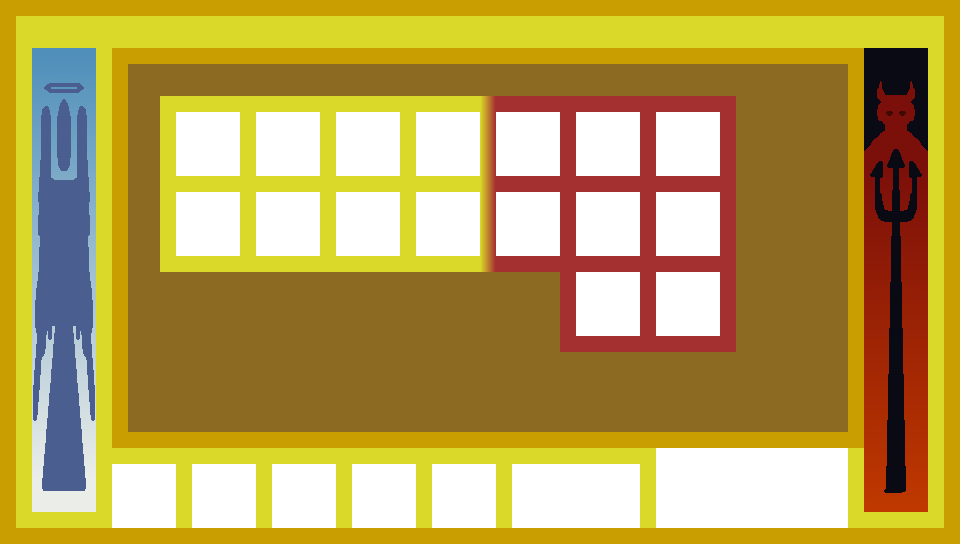
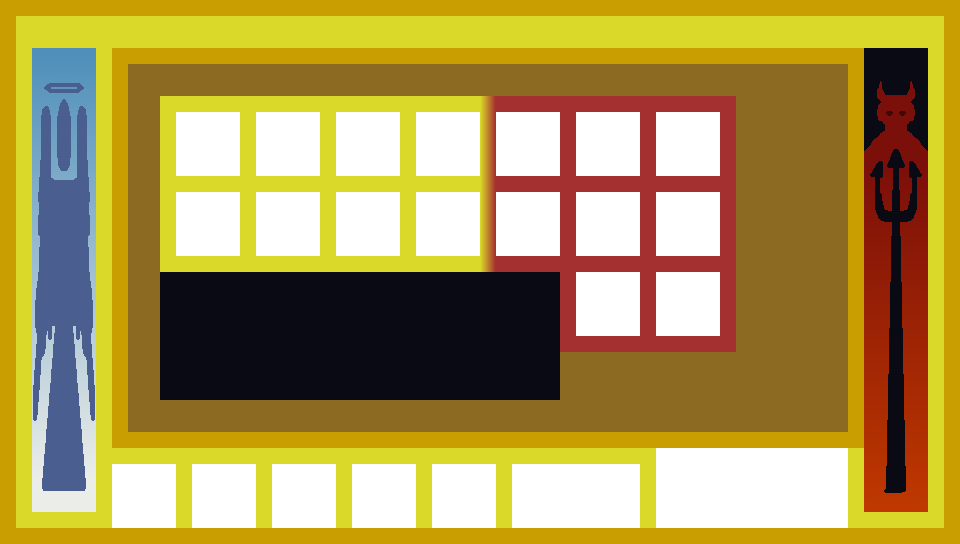
finished tooltips for angel troops in inventory

Changed region(s): [[0.1562, 0.5, 0.5938, 0.75]]

diff --git a/src/scenes/Inventory.js b/src/scenes/Inventory.js
@@ -4,6 +4,9 @@ class Inventory extends Phaser.Scene {
     }
 
     create() {
+        // flag for printing info just once
+        this.infoFlag = true;
+        
         // add snapshot image from prior Scene
         if (this.textures.exists('titlesnapshot')) {
             let titleSnap = this.add.image(0, 0, 'titlesnapshot').setOrigin(0);
@@ -19,13 +22,13 @@ class Inventory extends Phaser.Scene {
         const troops = [];
 
         // create slot objects
-        this.archer = this.physics.add.image(176, 112, 'Archer_icon').setOrigin(0,0)
-        this.archer.name = 'Archer'
-        troops.push(this.archer)
-
-        this.sword = this.physics.add.image(256, 112, 'Swordsman_icon').setOrigin(0,0)
+        this.sword = this.physics.add.image(176, 112, 'Swordsman_icon').setOrigin(0,0)
         this.sword.name = 'Swordsman'
         troops.push(this.sword)
+
+        this.archer = this.physics.add.image(256, 112, 'Archer_icon').setOrigin(0,0)
+        this.archer.name = 'Archer'
+        troops.push(this.archer)
 
         this.shield = this.physics.add.image(416, 112, 'Shieldbearer_icon').setOrigin(0,0)
         this.shield.name = 'Shieldbearer'
@@ -47,14 +50,18 @@ class Inventory extends Phaser.Scene {
         this.archangel = this.physics.add.image(336, 192, 'Archangel_icon').setOrigin(0,0)
         this.archangel.name = 'Archangel'
         troops.push(this.archangel)
-        
-        this.mystery = this.physics.add.image(416, 192, 'question_mark').setOrigin(0,0)
 
-        console.log(troops)
+        this.god = this.physics.add.image(416, 192, 'God_icon').setOrigin(0,0)
+        this.god.name = 'God'
+        troops.push(this.god)
+        
+        this.mystery = this.physics.add.image(416, 192, 'God_icon').setOrigin(0,0)
+
+        // demon icons
+        this.warrior = this.physics.add.image(496, 112, 'Warrior_icon').setOrigin(0,0)
 
         // create player cursor object
-        this.cursor = this.physics.add.image(this.archer.x - 2, this.archer.y - 2, 'cursor').setOrigin(0,0)
-        
+        this.cursor = this.physics.add.image(this.sword.x - 2, this.sword.y - 2, 'cursor').setOrigin(0,0)
 
         // keyboard defs
         keyW = this.input.keyboard.addKey('W')
@@ -66,18 +73,12 @@ class Inventory extends Phaser.Scene {
 
         // adding troops to roster, remove if pressed again
         this.physics.add.overlap(this.cursor, troops, (cursor, troop)=> {
+            if (this.infoFlag) {
+                this.add.image(160, 272, troop.name + '_info').setOrigin(0,0)
+                this.infoFlag = false;
+            }
             if (Phaser.Input.Keyboard.JustDown(keySPACE)) {
-                if (troop.name == 'Archer'){ 
-                    if (roster.length < MAXROSTERSIZE && level >= 1 && !this.checkDuplicates(troop)) {
-                        roster.push('Archer')
-                        this.updateRoster()
-                    } else if(this.checkDuplicates(troop) && roster.length > 1){
-                        this.removeTroop(troop)
-                        this.updateRoster()
-                    } else {
-                        console.log("NUH UH (play err anim)")
-                    }
-                } else if (troop.name == 'Swordsman'){ 
+                if (troop.name == 'Swordsman'){ 
                     if (roster.length < MAXROSTERSIZE && level >= 1 && !this.checkDuplicates(troop)) {
                         roster.push('Swordsman')
                         this.updateRoster()
@@ -85,9 +86,20 @@ class Inventory extends Phaser.Scene {
                         this.removeTroop(troop)
                         this.updateRoster()
                     } else {
-                        console.log("NUH UH (play err anim)")
+                        console.log("play err anim")
                     }
                 }
+                else if (troop.name == 'Archer'){ 
+                    if (roster.length < MAXROSTERSIZE && level >= 1 && !this.checkDuplicates(troop)) {
+                        roster.push('Archer')
+                        this.updateRoster()
+                    } else if(this.checkDuplicates(troop) && roster.length > 1){
+                        this.removeTroop(troop)
+                        this.updateRoster()
+                    } else {
+                        console.log("play err anim")
+                    }
+                } 
                 else if (troop.name == 'Shieldbearer'){ 
                     if (roster.length < MAXROSTERSIZE && level >= 1 && !this.checkDuplicates(troop)) {
                         roster.push('Shieldbearer')
@@ -96,7 +108,7 @@ class Inventory extends Phaser.Scene {
                         this.removeTroop(troop)
                         this.updateRoster()
                     } else {
-                        console.log("NUH UH (play err anim)")
+                        console.log("play err anim")
                     }
                 }
                 else if (troop.name == 'Axeman'){ 
@@ -107,7 +119,7 @@ class Inventory extends Phaser.Scene {
                         this.removeTroop(troop)
                         this.updateRoster()
                     } else {
-                        console.log("NUH UH (play err anim)")
+                        console.log("play err anim")
                     }
                 }
                 else if (troop.name == 'Spearman'){ 
@@ -118,7 +130,7 @@ class Inventory extends Phaser.Scene {
                         this.removeTroop(troop)
                         this.updateRoster()
                     } else {
-                        console.log("NUH UH (play err anim)")
+                        console.log("play err anim")
                     }
                 }
                 else if (troop.name == 'Cavalry'){ 
@@ -129,7 +141,7 @@ class Inventory extends Phaser.Scene {
                         this.removeTroop(troop)
                         this.updateRoster()
                     } else {
-                        console.log("NUH UH (play err anim)")
+                        console.log("play err anim")
                     }
                 }
                 else if (troop.name == 'Archangel'){ 
@@ -140,7 +152,18 @@ class Inventory extends Phaser.Scene {
                         this.removeTroop(troop)
                         this.updateRoster()
                     } else {
-                        console.log("NUH UH (play err anim)")
+                        console.log("play err anim")
+                    }
+                }
+                else if (troop.name == 'God'){ 
+                    if (roster.length < MAXROSTERSIZE && level >= 60 && !this.checkDuplicates(troop)) {
+                        roster.push('God')
+                        this.updateRoster()
+                    } else if(this.checkDuplicates(troop) && roster.length > 1){
+                        this.removeTroop(troop)
+                        this.updateRoster()
+                    } else {
+                        console.log("play err anim")
                     }
                 }
             }
@@ -166,15 +189,19 @@ class Inventory extends Phaser.Scene {
         // navigate inventory
         if (Phaser.Input.Keyboard.JustDown(keyW) && this.cursor.y != 112 - 2) {
             this.cursor.y -= 80
+            this.infoFlag = true
         }
         if (Phaser.Input.Keyboard.JustDown(keyA) && this.cursor.x != 176 - 2) {
             this.cursor.x -= 80
+            this.infoFlag = true
         }
         if (Phaser.Input.Keyboard.JustDown(keyS) && this.cursor.y != 192 - 2) {
             this.cursor.y += 80
+            this.infoFlag = true
         }
         if (Phaser.Input.Keyboard.JustDown(keyD) && this.cursor.x != 416 - 2) {
             this.cursor.x += 80
+            this.infoFlag = true
         }
         // return to map view
         if (Phaser.Input.Keyboard.JustDown(keyESC)) {

diff --git a/src/scenes/Battle.js b/src/scenes/Battle.js
@@ -11,6 +11,7 @@ class Battle extends Phaser.Scene {
 
         // set up main camera
         //this.cameras.main.setBounds(0, 0, 1920, 544).setZoom(1)
+        this.cameras.main.setZoom(1)
         this.cameras.main.startFollow(this.player)
         this.cameras.main.flash(500, 255, 255, 0, true)
 
@@ -92,13 +93,19 @@ class Battle extends Phaser.Scene {
         // set physics world bounds (so collideWorldBounds works properly)
         this.physics.world.bounds.setTo(0 + this.cameras.main.width / 2, 0, 1920 - this.cameras.main.width, 544)
 
-        // summon troops
+        // prepare arrays for each army
+        this.angels = []
+        // summon angel troops
         this.physics.add.overlap(this.cursor, this.rosterArray, (cursor, troop)=> {
             if (Phaser.Input.Keyboard.JustDown(keySPACE)) {
-                if (troop.name == 'Archer'){ 
-                    console.log('summoning archer')
-                } else if (troop.name == 'Swordsman'){ 
+                if (troop.name == 'Swordsman'){ 
                     console.log('summoning swordsman')
+                    this.angels.push(new Angel(this, 'Swordsman_icon', 'Swordsman', 100, 20, 'Swordsman', 200))
+
+                }else if (troop.name == 'Archer'){ 
+                    console.log('summoning archer')
+                    this.angels.push(new Angel(this, 'Archer_icon', 'Archer', 100, 20, 'Archer', 200))
+                    console.log(this.angels)
                 }
                 else if (troop.name == 'Shieldbearer'){ 
                     console.log('summoning shieldbearer')
@@ -117,6 +124,14 @@ class Battle extends Phaser.Scene {
                 }
             }
         })
+        // summon demon troops
+
+        // creat collisions for troops
+        GroundLayer.setCollisionByProperty({
+            collides: true
+        })
+
+        this.physics.add.collider(this.angels, GroundLayer)
     }
 
     update() {
@@ -139,5 +154,10 @@ class Battle extends Phaser.Scene {
         }
         this.playerDirection.normalize()
         this.player.setVelocity(this.PLAYER_VEL * this.playerDirection.x, this.PLAYER_VEL * this.playerDirection.y)
+
+        // update angels
+        for (let i = 0; i < this.angels.length; i++) {
+            this.angels[i].update()
+        }
     }
 }

diff --git a/src/scenes/Load.js b/src/scenes/Load.js
@@ -16,15 +16,28 @@ class Load extends Phaser.Scene {
         this.load.image('inventory', 'inventory.png')
         this.load.image('cursor', 'cursor.png')
 
-        // load icons
-        this.load.image('Shieldbearer_icon', 'shield_icon.png')
-        this.load.image('Axeman_icon', 'axe_icon.png')
+        // load angel icons
         this.load.image('Swordsman_icon', 'sword_icon.png')
         this.load.image('Archer_icon', 'archer_icon.png')
-        this.load.image('Archangel_icon', 'archangel_icon.png')
+        this.load.image('Axeman_icon', 'axe_icon.png')
+        this.load.image('Shieldbearer_icon', 'shield_icon.png')
         this.load.image('Spearman_icon', 'spearman_icon.png')
         this.load.image('Cavalry_icon', 'cavalry_icon.png')
-        this.load.image('question_mark', 'question_mark.png')
+        this.load.image('Archangel_icon', 'archangel_icon.png')
+        this.load.image('God_icon', 'question_mark.png')
+
+        // load demon icons
+        this.load.image('Warrior_icon', 'warrior_icon.png')
+
+        // load angel info
+        this.load.image('Swordsman_info', 'swordsman_info.png')
+        this.load.image('Archer_info', 'archer_info.png')
+        this.load.image('Axeman_info', 'axeman_info.png')
+        this.load.image('Shieldbearer_info', 'shield_info.png')
+        this.load.image('Spearman_info', 'spear_info.png')
+        this.load.image('Cavalry_info', 'cavalry_info.png')
+        this.load.image('Archangel_info', 'archangel_info.png')
+        this.load.image('God_info', 'God_info.png')
 
         this.load.image('tilesetImage', 'tileset.png')
         this.load.tilemapTiledJSON('tilemapJSON', 'map.json')

diff --git a/src/prefabs/Angel.js b/src/prefabs/Angel.js
@@ -1,0 +1,19 @@
+// Angel prefab
+class Angel extends Phaser.GameObjects.Sprite{
+    constructor(scene, texture, name, health, damage, modifier, moveSpeed) {
+        super(scene, 200, 432, texture);
+        scene.add.existing(this)
+        scene.physics.add.existing(this)
+        this.name = name
+        this.health = health
+        this.damage = damage
+        this.modifier = modifier
+        this.moveSpeed = moveSpeed;
+        this.body.setGravity(0, 100)
+    }
+
+    update(){
+        // move Angel right
+        this.body.setVelocity(this.moveSpeed, 0)
+    }
+}

diff --git a/index.html b/index.html
@@ -25,6 +25,8 @@
 <body>
     <script src="./lib/phaser.js"></script>
 
+    <script src="./src/prefabs/Angel.js"></script>
+
     <script src="./src/scenes/Load.js"></script>
     <script src="./src/scenes/Menu.js"></script>
     <script src="./src/scenes/Credits.js"></script>

diff --git a/src/main.js b/src/main.js
@@ -31,5 +31,5 @@ let level = 1
 let playerPosX = 480
 let playerPosY = 1920
 
-let roster = ['Archer']
+let roster = ['Swordsman']
 let MAXROSTERSIZE = 5
